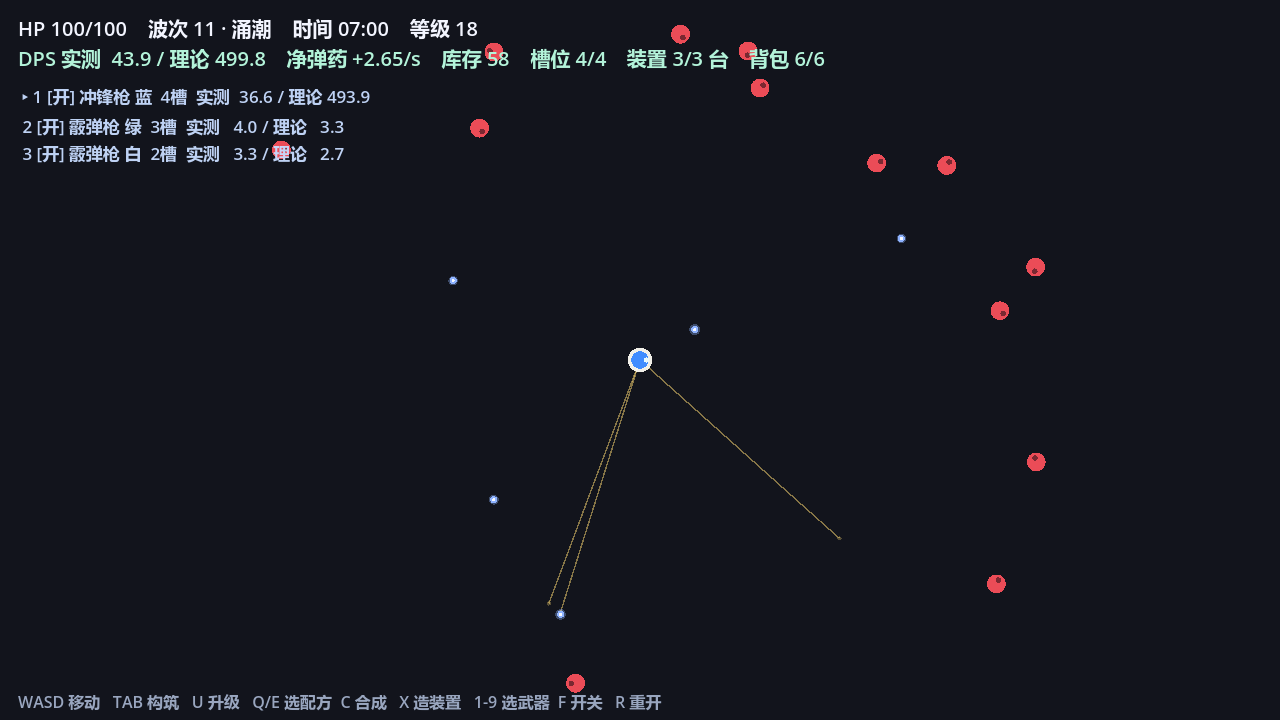
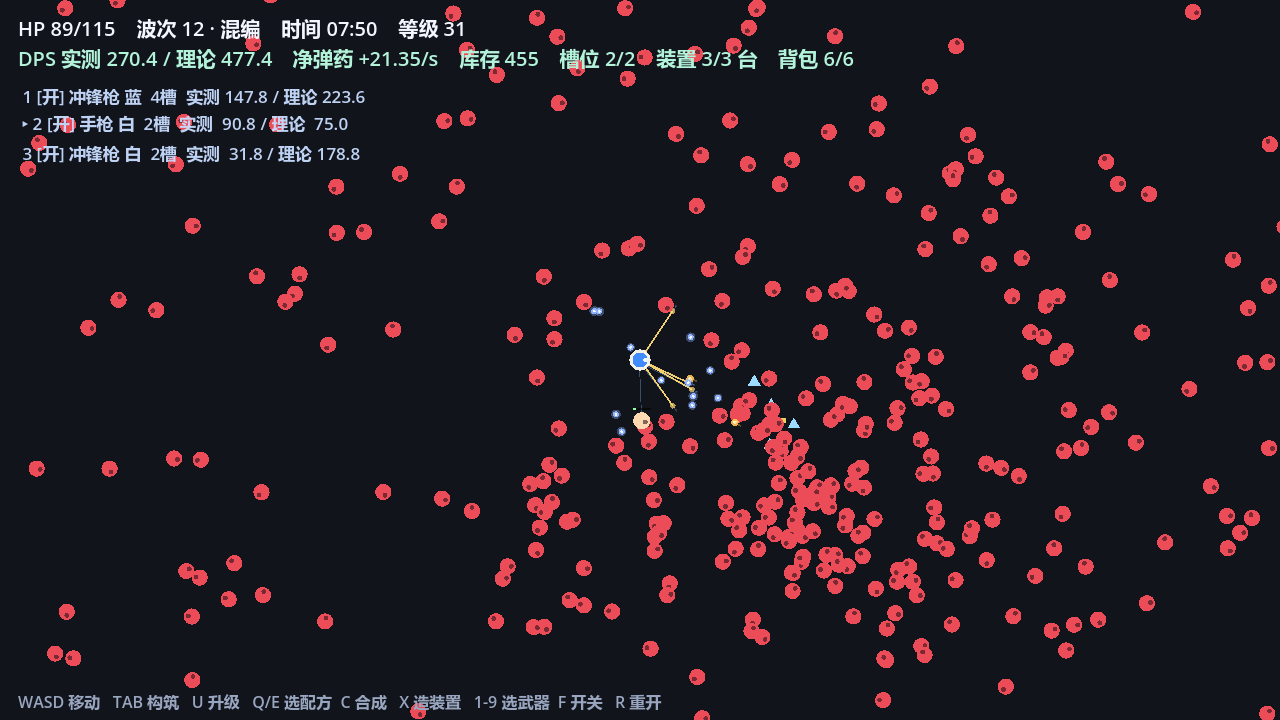
feat: 模块进选中武器/掉落按血量加权/指数刷怪+12波后加速/生成半径移出屏幕/敌人环身不叠点/修 Camera2D NaN；新增 docs/reference.md 全量数据手册

diff --git a/docs/reference.md b/docs/reference.md
@@ -1,0 +1,227 @@
+# Weapon Build Survivor · 完整数据手册
+
+> 本文件由代码常量直接整理（`scripts/game.gd`），随版本更新。
+> 生成时间对应 commit：见本文件末尾「同步说明」。
+
+---
+
+## 0. 一局的循环
+
+1. **40 秒一波**，一波打完进入下一波，波次越高刷怪越快、血量越高。
+2. 敌人死亡掉**基础模块**（血量越厚掉得越多）。
+3. 掉落的模块进**库存**；在构筑屏（TAB，暂停）里用**装置**把它合成更高阶模块。
+4. 模块插进**武器电路板**的槽位，按相邻关系组成网络，把数值转成伤害。
+5. 每开火一次，板上**每个模块消耗 1 次使用次数**；次数烧完模块消失，格子被自动补料。
+6. 升级给 **4 选 1**：3 张 buff + 1 张配方卡（配方卡可按 T 换成第 4 张 buff）。
+7. 宝箱 + 精英掉宝箱给**新武器**；武器品质决定槽数，槽位形状每把随机生成。
+8. **失败条件**：被淹没 —— 场上敌人堆到上限打不完，接触伤害把 HP 磨光。
+
+### 操作
+
+| 按键 | 作用 |
+|---|---|
+| `WASD` / 方向键 | 移动 |
+| `TAB` | 打开/关闭构筑屏（暂停） |
+| `1`–`9` | 选中第 N 把武器（电路板与合成都作用在它身上） |
+| `F` | 开/关当前武器 |
+| `U` | 升级（消耗库存模块） |
+| `Q` / `E` | 切换配方 |
+| `C` | 合成选中配方 |
+| `V` / `B` | 快速合成增幅 / 共振 |
+| `X` | 造合成装置 |
+| `R` | 重开 |
+
+---
+
+## 1. 武器
+
+### 1.1 数据表
+
+| 武器 | 射程 | 间隔 | 目标数 | 倍率 | 基础伤害 | 获取 | 特性 |
+|---|---|---|---|---|---|---|---|
+| 手枪 | 300 | 0.70s | 2 | 1.00 | 1.0 | 开局随机 | 基准 |
+| 冲锋枪 | 210 | 0.30s | 1 | 1.10 | 0.5 | 开局随机 | 高射速、短射程 |
+| 霰弹枪 | 200 | 0.90s | 5 | 1.11 | 0.8 | 开局随机 | 扇形多目标 |
+| 狙击枪 | 640 | 2.50s | 1 | 1.00 | 3.0 | 宝箱（常驻） | **优先打射手/精英** |
+| 镭射 | 380 | 0.20s | 1 | 1.00 | 0.6 | 宝箱（wave≥4） | **锁最高血量目标，连击叠倍率** |
+| 榴弹炮 | 460 | 1.60s | 1(+溅射) | 1.30 | 0.8 | 宝箱（wave≥5） | 命中点 90 半径溅射 60% |
+| 环绕刃 | 105 | 1.80s | 圈内全部 | 0.80 | 0.4 | 宝箱（wave≥6） | 绕身旋转，**每转一圈才扣 1 次** |
+| 激光环 | 420 | 40.0s | 范围内全部 | 4.00 | 2.0 | 宝箱（wave≥8） | 40 秒一次的清场 |
+
+品质 = 槽位数：白 2 / 绿 3 / 蓝 4 / 紫 5 / 金 6。品质**只由宝箱决定**，不再随波次自动提升。
+
+### 1.2 开火结算
+
+```
+单次出力 = (武器基础伤害 + 所有槽位 out 之和) × 武器倍率 × 模块倍率
+每目标伤害 = 单次出力 × (1 + 0.10 × (命中数 − 1)) / 命中数
+当前 DPS = 每目标伤害 × 命中数 / (间隔 × 模块间隔修正)
+```
+
+- `命中数` = min(目标数, 射程内敌人数)；`目标数 = -1` 表示射程内全部。
+- 多目标**不是**每个目标吃满：总伤害有 10%/目标的加成，但被分摊，避免多目标武器直接超模。
+- 榴弹炮不叠分摊（主目标吃满，溅射另算）。
+- 没有目标时**不开火**，也就不消耗次数（环绕刃例外：空转也烧）。
+
+### 1.3 目标选择
+
+| 武器 | 规则 |
+|---|---|
+| 狙击枪 | 优先 `shooter`、`charger`，同类里取最近 |
+| 镭射 | 取**血量最高**的敌人（`highest_hp`），目标不死不换，光柱一直烧同一个 |
+| 其它 | 最近 N 个 |
+
+镭射连击：同一目标每命中 +6% 伤害，上限 +120%（`聚焦环` 再 +180%），换目标或断连 1.2s 归零。
+
+---
+
+## 2. 敌人
+
+### 2.1 种类
+
+| 种类 | 速度 | 血量倍率 | 半径 | 外观 | 特点 |
+|---|---|---|---|---|---|
+| 涌潮 flood | 100 | 1.00 | 13 | 红圆 | 基准杂兵 |
+| 疾行者 runner | 205 | 0.45 | 9 | 橙色尖三角 | 快而脆，用来测清场速度 |
+| 磐石 rock | 52 | 2.67 | 19 | 紫圆 + 硬壳 | 慢而厚，用来测单体输出 |
+| 射手 shooter | 70 | 1.71 | 12 | 淡蓝三角 | 保持 140–190 距离放风筝，每 3.2s 一发 5 伤子弹 |
+| 冲刺精英 charger | 78 | 9.00 | 20 | 红色六边形 | 420 内蓄力 0.9s（红线预警）→ 780px/s 冲刺 0.35s → 24 伤 + 击退 + 1.1s 硬直 |
+
+基础血量：`1.80 × 1.118^(wave−1) × 12 波后额外 ×1.045^(wave−12)`，再乘该种类的血量倍率。
+
+### 2.2 波次编成（每 5 波循环）
+
+| 波型 | 预算系数 | 组成 |
+|---|---|---|
+| 涌潮 | 1.00 | 涌潮 ×1 |
+| 混编 | 0.80 | 涌潮 5 / 疾行 3 / 射手 2 |
+| 疾行 | 1.40 | 疾行 ×1 |
+| 磐石 | 0.60 | 磐石 ×1 |
+| 混编 | 0.80 | 涌潮 4 / 磐石 2 / 疾行 2 / 射手 1 |
+
+刷怪速率 = `0.90 × 1.42^波次 × 预算系数`（上限 = 基础值 ×1.8），同屏上限 **560**。
+
+### 2.3 生成编队
+
+| 编队 | 数量 | 从第几波 | 权重 |
+|---|---|---|---|
+| 单点 | 1 | 1 | 46 |
+| 一团 | 4–7 | 2 | 28 |
+| 弧线 | 6–9 | 4 | 18 |
+| 一圈 | 10–14 | 6 | 16 |
+
+- 生成半径 **1220–1400**：必须在镜头视野之外（zoom 0.62 下半屏 1032×580，对角约 1184），敌人是「走进来」的，不会凭空出现在屏幕上。
+- 刷怪按预算扣：一圈要 10 只就等攒够 10 只再整队出现，不会一只只挤成一条线。
+- 精英：wave 4 首只，之后每 6 波保证 1 只，同屏上限 3，死亡 50% 掉宝箱。
+
+---
+
+## 3. 模块
+
+### 3.1 核心四阶
+
+| 模块 | 阶 | 出力 | 次数 | 类型 | 效果 |
+|---|---|---|---|---|---|
+| 基础 | T1 | 1.0 | 45 | flat | 老实给 1.0 |
+| 加法 | T2 | 3.0 | 60 | mirror | 3.0 + 每个**相邻低阶**模块的出力（镜像，不连锁） |
+| 增幅 | T3 | 0.0 | 120 | boost | 自身 0 出力，**每发**把 5.0 加到相邻模块的**最终输出**上 |
+| 共振 | T4 | 27.0 | 100 | reson | 每个相邻的同类型（reson）模块给它 +50% 出力 |
+
+### 3.2 网络结算顺序（重要）
+
+```
+1) base[i] = 模块出力
+2) 共振：每个 reson 邻居给 +50% × base  →  得到 eff[i]
+3) 镜像：加法/阵列类把相邻低阶的 eff 加到自己  →  out[i]
+4) 增幅：把 boost 值加到相邻模块的 out[i] 上（直接加在最终输出，不会被镜像放大）
+```
+
+**不做连锁传播**：加法镜像只读一次，不会 A→B→A 循环放大。这是防止指数爆炸的关键。
+同一个板上，把「生产者」放在枢纽位置（十字中心有 4 个邻居）收益最高。
+
+### 3.3 全部配方（16 个，均可掉落/合成）
+
+| 模块 | 阶 | 出力 | 次数 | 效果 |
+|---|---|---|---|---|
+| 锋锐刃 | T2 | 2.0 | 40 | 武器倍率 +8% |
+| 淬火块 | T2 | 4.5 | 30 | 纯数值（同阶最厚） |
+| 轻量片 | T2 | 1.5 | 90 | 每次开火只烧 0.5 次 |
+| 增程器 | T2 | 1.0 | 50 | 射程 +25 |
+| 校准镜 | T3 | 1.0 | 45 | 开火间隔 ×0.95 |
+| 贯穿弹 | T3 | 6.0 | 60 | 穿透 +1，身后 120px 内最近敌人吃 60% |
+| 破甲锥 | T3 | 5.0 | 50 | 对精英/磐石 +20% |
+| 冷却片 | T3 | 3.0 | 70 | 间隔 ×0.92 |
+| 回收片 | T3 | 2.0 | 80 | 20% 概率给相邻模块 +3 次寿命 |
+| 过载核 | T4 | 18.0 | 70 | 武器倍率 ×1.15 |
+| 时序核 | T4 | 15.0 | 90 | 连击：每次命中 +4%，上限 40% |
+| 多膛组 | T3 | 6.0 | 55 | **仅狙击枪**：目标数 +1 |
+| 轻质弹链 | T3 | 2.0 | 100 | **仅冲锋枪**：每次只烧 0.35 次 |
+| 扩散器 | T3 | 5.0 | 50 | **仅霰弹枪**：目标数 +2 |
+| 聚焦环 | T4 | 14.0 | 80 | **仅镭射**：连击上限 +180% |
+| 集束装药 | T3 | 5.5 | 45 | **仅榴弹炮**：爆炸半径 +40 |
+| 长刃 | T3 | 5.0 | 70 | **仅环绕刃**：半径 +25、倍率 +20% |
+
+武器专属配方（`bind`）只有装在对应武器上才生效，装在别的武器上只剩 rate。
+
+### 3.4 合成成本 / 时间 / 解锁
+
+| 阶 | 材料 | 时间 | 解锁等级 |
+|---|---|---|---|
+| T2 | 3 × T1 | 5s | 5–7（按配方不同） |
+| T3 | 2 × 任意 T2 | 10s | 9–15 |
+| T4 | 2 × 任意 T3 | 18s | 16–20 |
+
+- 每台**合成装置** = 1 个并行合成位；装置可反复制造，材料堆积就多做几台（变相缩短合成时间）。
+- 装置造价：`12 × 1.7^(n−2)` 个基础模块（第 2 台 12、第 3 台 20、第 4 台 35、第 5 台 59…），上限 8 台。开局免费 1 台。
+- 背包容量 **6**（武器 + 装置共享）。
+
+### 3.5 模块寿命与补料
+
+- 每个模块有**使用次数**，每开火一次扣 1（轻量片 0.5、弹链 0.35）。
+- 次数烧完格子空出来，系统按「补上去整板出力最高」的那一阶自动补料；补不上就保持空槽。
+- 新模块次数有 ±15% 随机抖动，避免整板模块同时过期造成的断崖。
+
+---
+
+## 4. 升级奖励
+
+每次升级弹 4 张卡：攻击 / 经济 / 生存 各 1 张 buff，第 4 张是**配方卡**（立刻获得 1 个模块，可按 `T` 换成第 4 张 buff）。
+
+| buff | 类别 | 稀有度 | 上限 | 效果 |
+|---|---|---|---|---|
+| 穿透 | 攻击 | 蓝 | 3 | 主目标身后 120px 内最近敌人吃 60% |
+| 破甲 | 攻击 | 蓝 | 4 | 对冲刺精英与磐石 +25% |
+| 攻速 | 攻击 | 白 | 8 | 开火间隔 ×0.92 |
+| 强化 | 攻击 | 白 | 6 | 伤害倍率 ×1.10 |
+| 射程 | 攻击 | 白 | 4 | 射程 +60 |
+| 多目标 | 攻击 | 金 | 3 | 每把武器目标数 +1 |
+| 掉落 | 经济 | 白 | 6 | 敌人掉落率 +0.04 |
+| 耐久 | 经济 | 白 | 5 | 新模块寿命 ×1.08 |
+| 工艺 | 经济 | 蓝 | 5 | 合成时间 ×0.90 |
+| 降本 | 经济 | 蓝 | 4 | 装置造价 ×0.92 |
+| 体魄 | 生存 | 白 | 6 | 最大 HP +15 |
+| 护甲 | 生存 | 白 | 5 | 接触伤害 ×0.92 |
+| 恢复 | 生存 | 蓝 | 4 | 脱战回血 +0.5/s |
+| 闪避 | 生存 | 金 | 3 | 受击无敌帧 +0.10s |
+
+稀有度权重：白 70 / 蓝 25 / 金 5（金卡在等级 4 之前不出现）。
+
+---
+
+## 5. 其它常数
+
+| 项 | 值 |
+|---|---|
+| 掉落 | 每杀 0.30 个基础模块 × 该敌人的血量倍率 ÷ 本波平均血量倍率（血厚的掉得多，总产出不变） |
+| 接触伤害 | 2.2 / 秒 / 只，最多同时 6 只结算 |
+| 脱战回血 | 4 秒未受伤后 1.2/s |
+| 精英掉宝箱 | 50% |
+| 波次宝箱 | 每波开始 1 个随机位置；每 90 秒保底 1 个；场上最多 3 个 |
+| 宝箱品质 | 按波次权重表（波次越高越容易出紫/金） |
+| 升级成本 | `3 × 1.18^(level−1)` 个模块（吃库存） |
+
+---
+
+## 6. 同步说明
+
+本文件对应 commit `bd903ee` 之后的开发版：包含阶段 L（数量优先数值 / 生成编队 / 镜头缩放）、阶段 G（插槽网络随机生成）、掉落按血量加权、模块进当前选中武器、敌人贴身后沿圆周滑行不叠点、生成半径移出屏幕外。

diff --git a/README.md b/README.md
@@ -80,11 +80,11 @@ Windows 下如果报 `Could not create directory: 'user://logs'`，先设 `$env:
 
 | 项 | 值 |
 | --- | --- |
-| 敌人 HP | `1.80 × 1.118^(wave−1)`，再乘该敌人的血量倍率 |
-| 刷怪速率 | `(1.20 + 0.62 × wave) × 编成系数 ÷ 本波平均血量倍率`，上限 `基础值 × 1.8` |
-| 每杀掉落 | 0.30 个基础模块 |
+| 敌人 HP | `1.80 × 1.118^(wave−1)`，12 波后额外 `×1.045^(wave−12)`，再乘该敌人的血量倍率 |
+| 刷怪速率 | `0.90 × 1.42^wave × 编成系数`，上限 `基础值 × 1.8` |
+| 每杀掉落 | 0.30 个基础模块 × 该敌人血量倍率 ÷ 本波平均倍率 |
 | 波间隔 | 40 s |
-| 同屏上限 | 420 只 |
+| 同屏上限 | 560 只 |
 | 接触伤害 | 2.2 / 秒 / 只（最多同时 6 只结算） |
 | 模块 | 基础 `1.0 / 45次` · 加法 `3.0 / 60` · 增幅 `0 出力 + 5.0 / 120` · 共振 `27.0 / 100` |
 | 配方 | `2×基础 → 加法 3s` · `2×基础 → 增幅 8s` · `2×增幅 → 共振 14s` |
